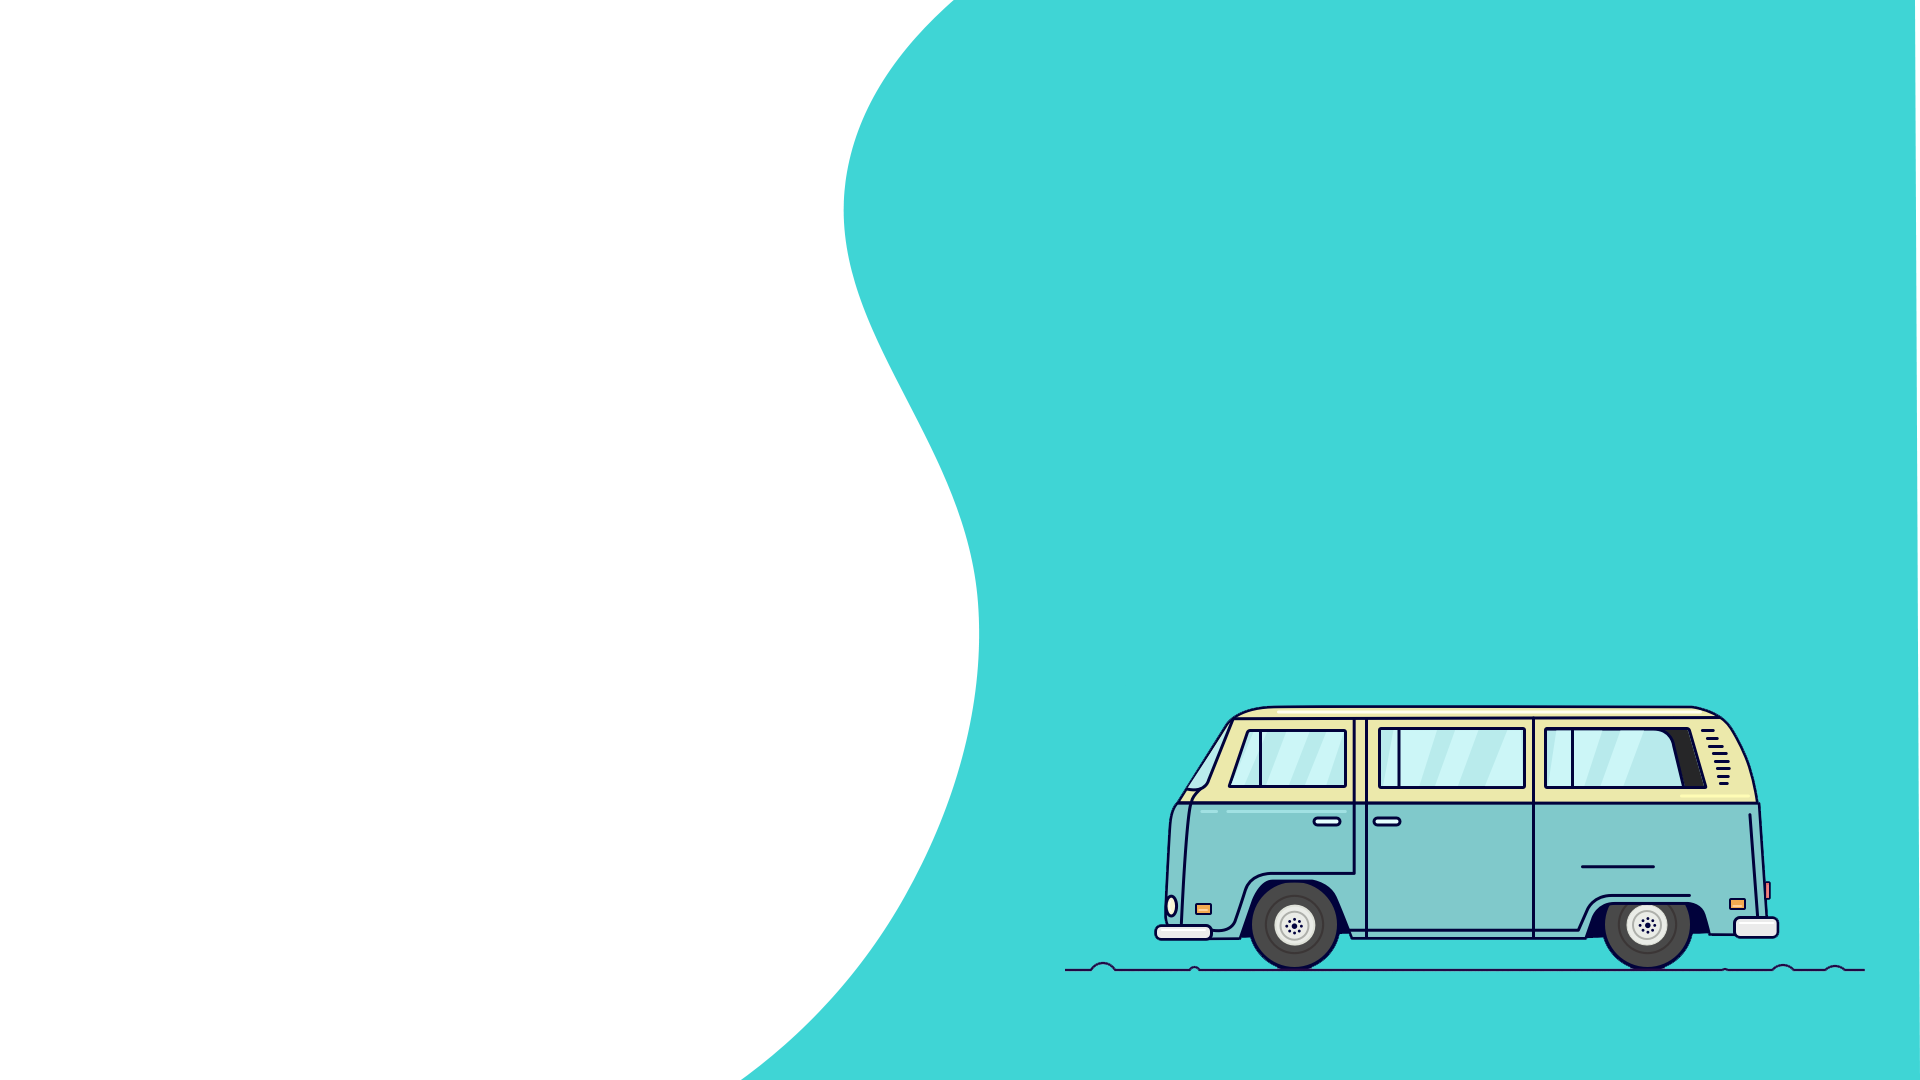
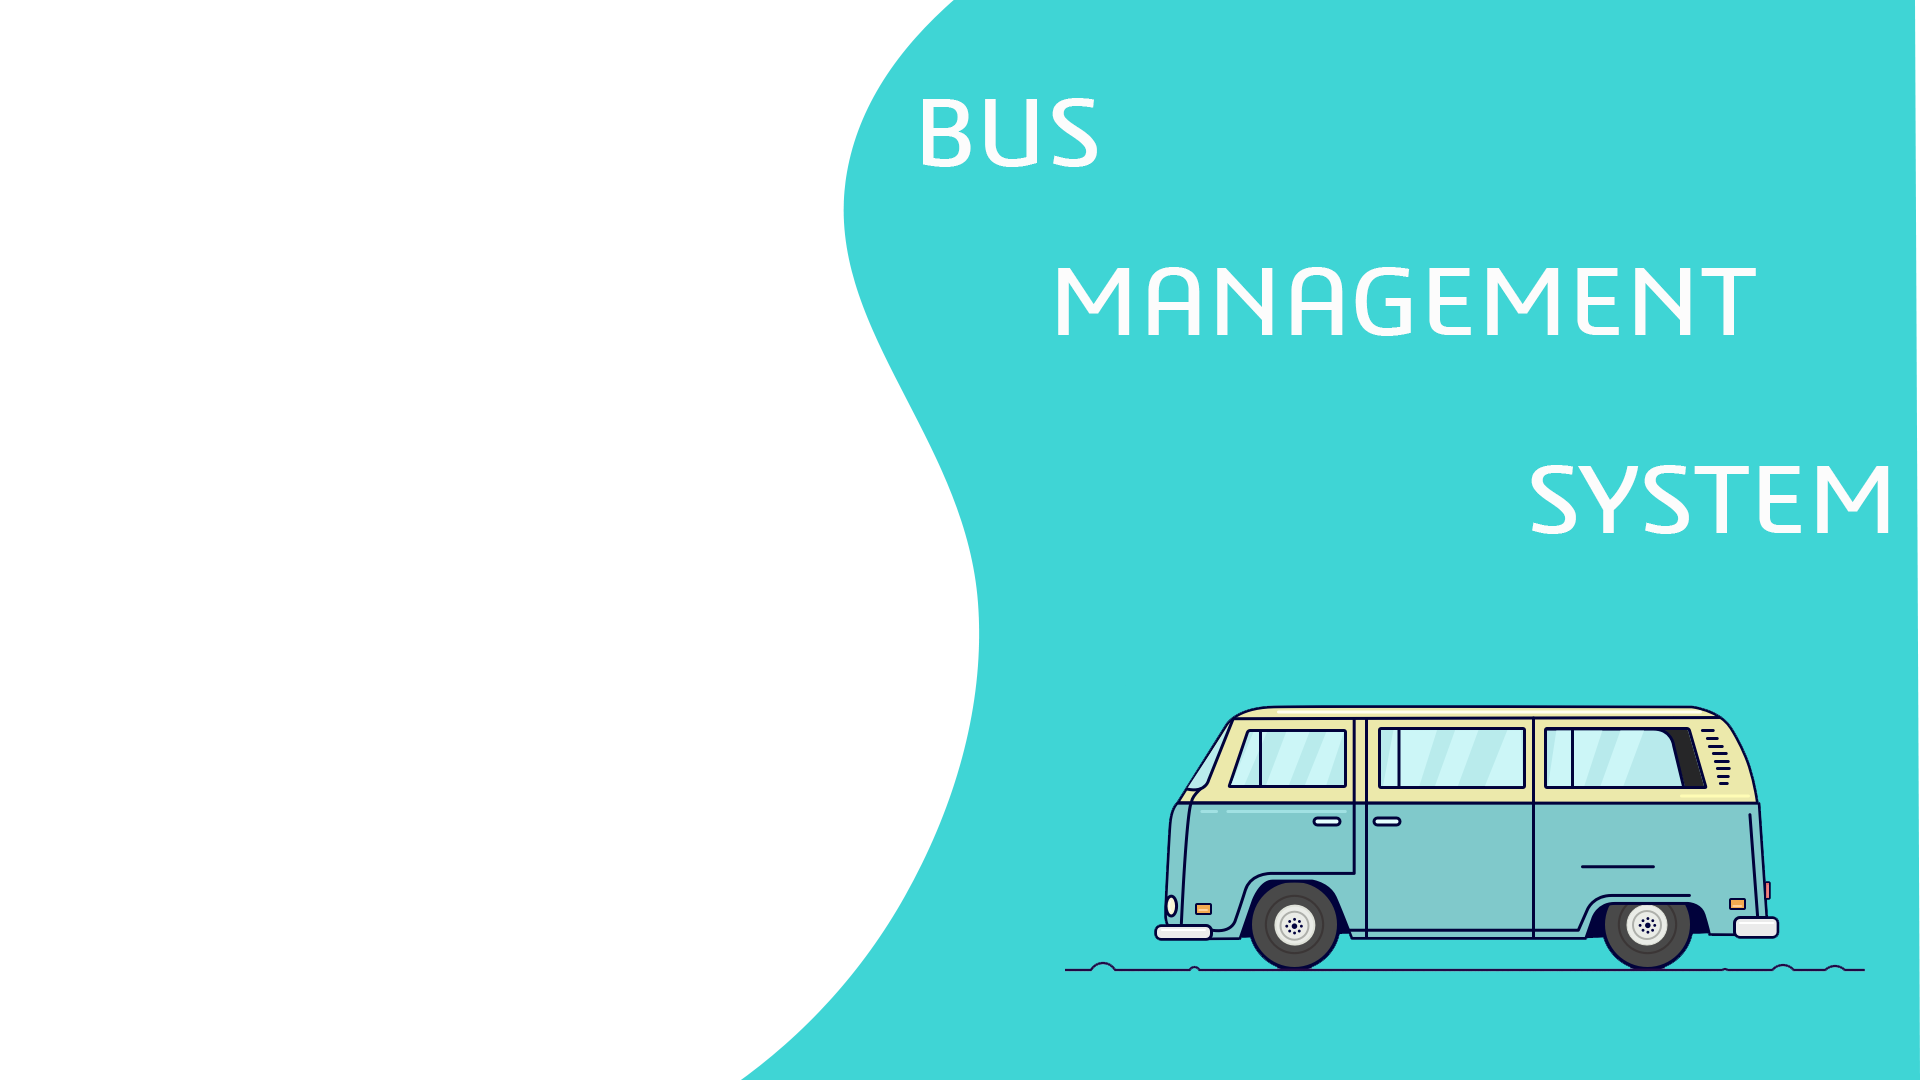
sua lai giao dien

Changed region(s): [[0.5312, 0.2444, 0.9062, 0.3361], [0.7812, 0.4278, 1.0, 0.4889], [0.4688, 0.0917, 0.5938, 0.1528]]

diff --git a/index.html b/index.html
@@ -1,7 +1,7 @@
 <!DOCTYPE html>
 <html>
 <head>
-	<title>Login Traffic Light </title>
+	<title>Login Bus Management System </title>
 	<link rel="stylesheet" type="text/css" href="css/style.css">
 	<link href="https://fonts.googleapis.com/css?family=Poppins:600&display=swap" rel="stylesheet">
 	<script src="https://kit.fontawesome.com/a81368914c.js"></script>
